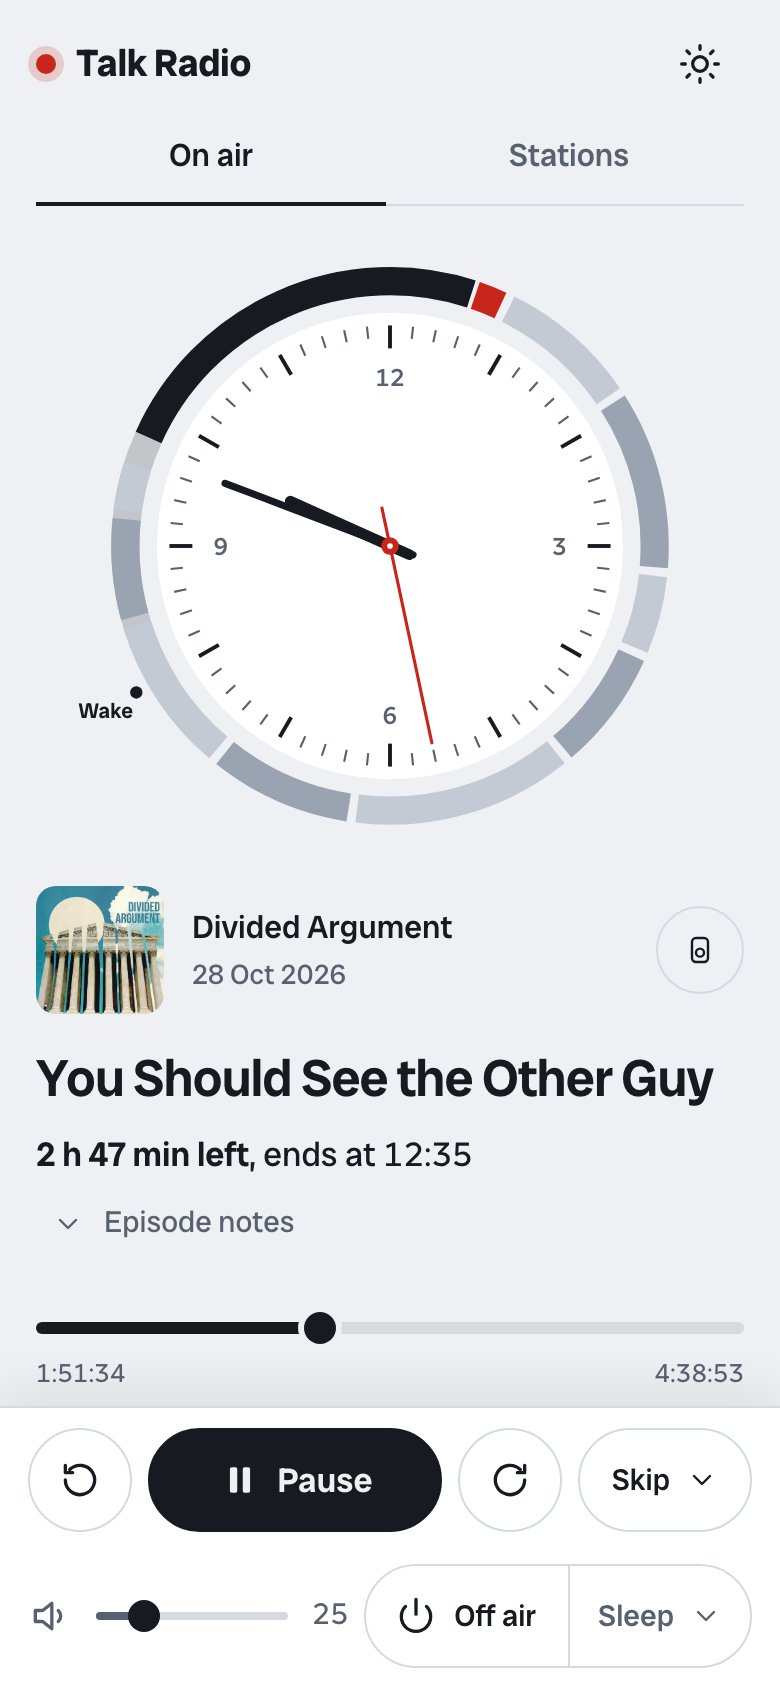
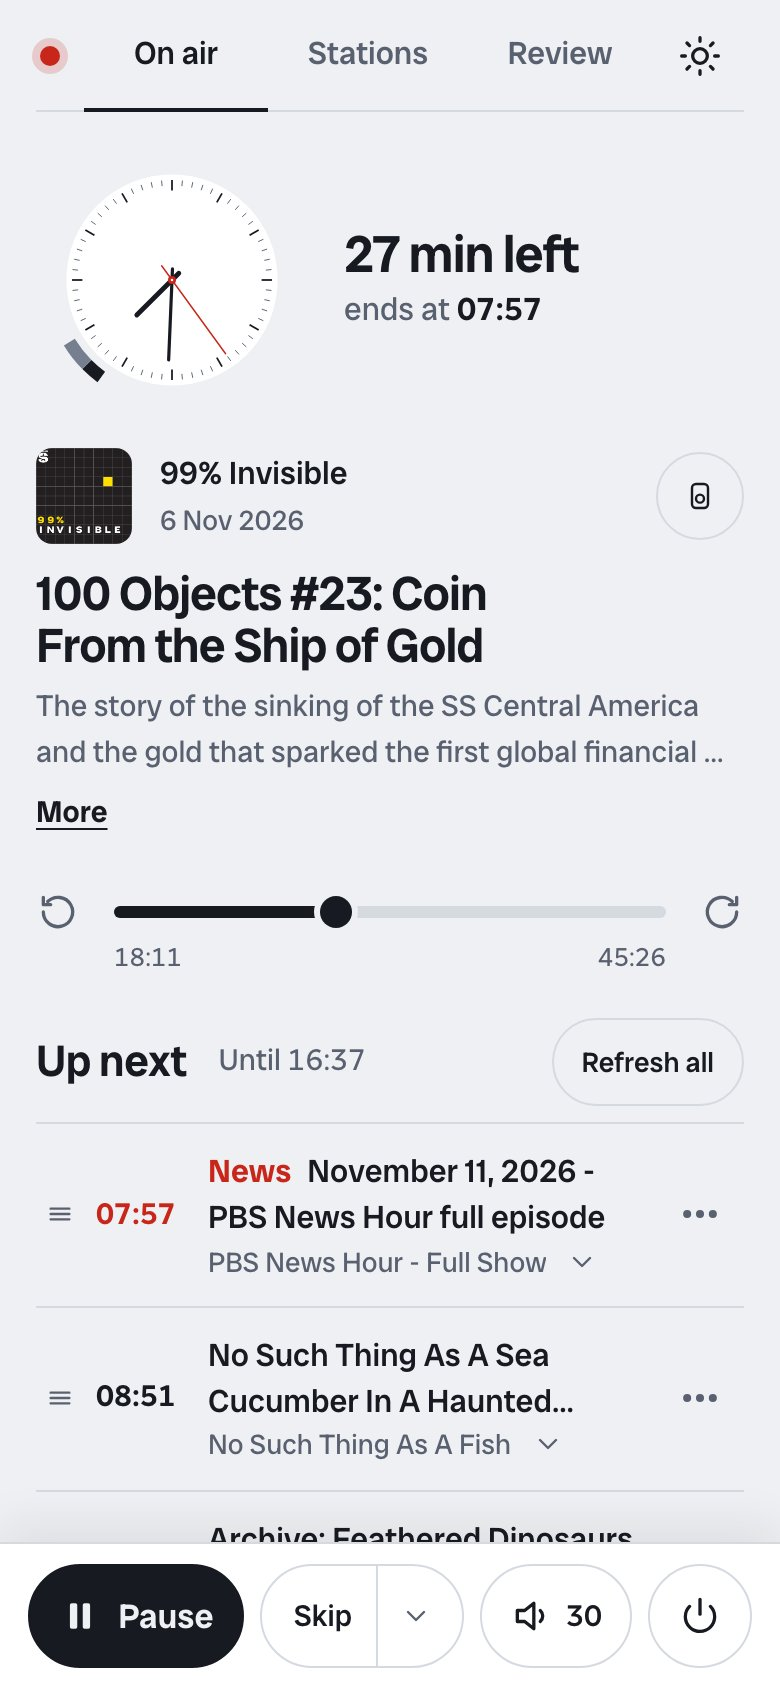
docs: retake the README screenshots at the tip of the redesign stack
They show the one-row controls, the Review nav item, and Select on
Stations. The on-air crop still ends on a row divider; it is the second
row's now.

diff --git a/tools/screenshot.py b/tools/screenshot.py
@@ -94,7 +94,7 @@ def jpeg(page: Page, path: Path, **opts) -> None:
 
 
 def shoot_pages(browser: Browser, base: str) -> None:
-    # 792 ends on the divider under the fourth Up Next row, not through the fifth.
+    # 792 ends on the divider under the second Up next row, not through the third.
     jpeg(open_page(browser, f"{base}/", 1400, 792, storage={"mode": "light"}), OUT / "on-air.jpg")
     jpeg(open_page(browser, f"{base}/", 1400, 792, storage={"mode": "dark"}), OUT / "on-air-dark.jpg")
     jpeg(open_page(browser, f"{base}/", 390, 844, scale=2, storage={"mode": "light"}), OUT / "on-air-narrow.jpg")
